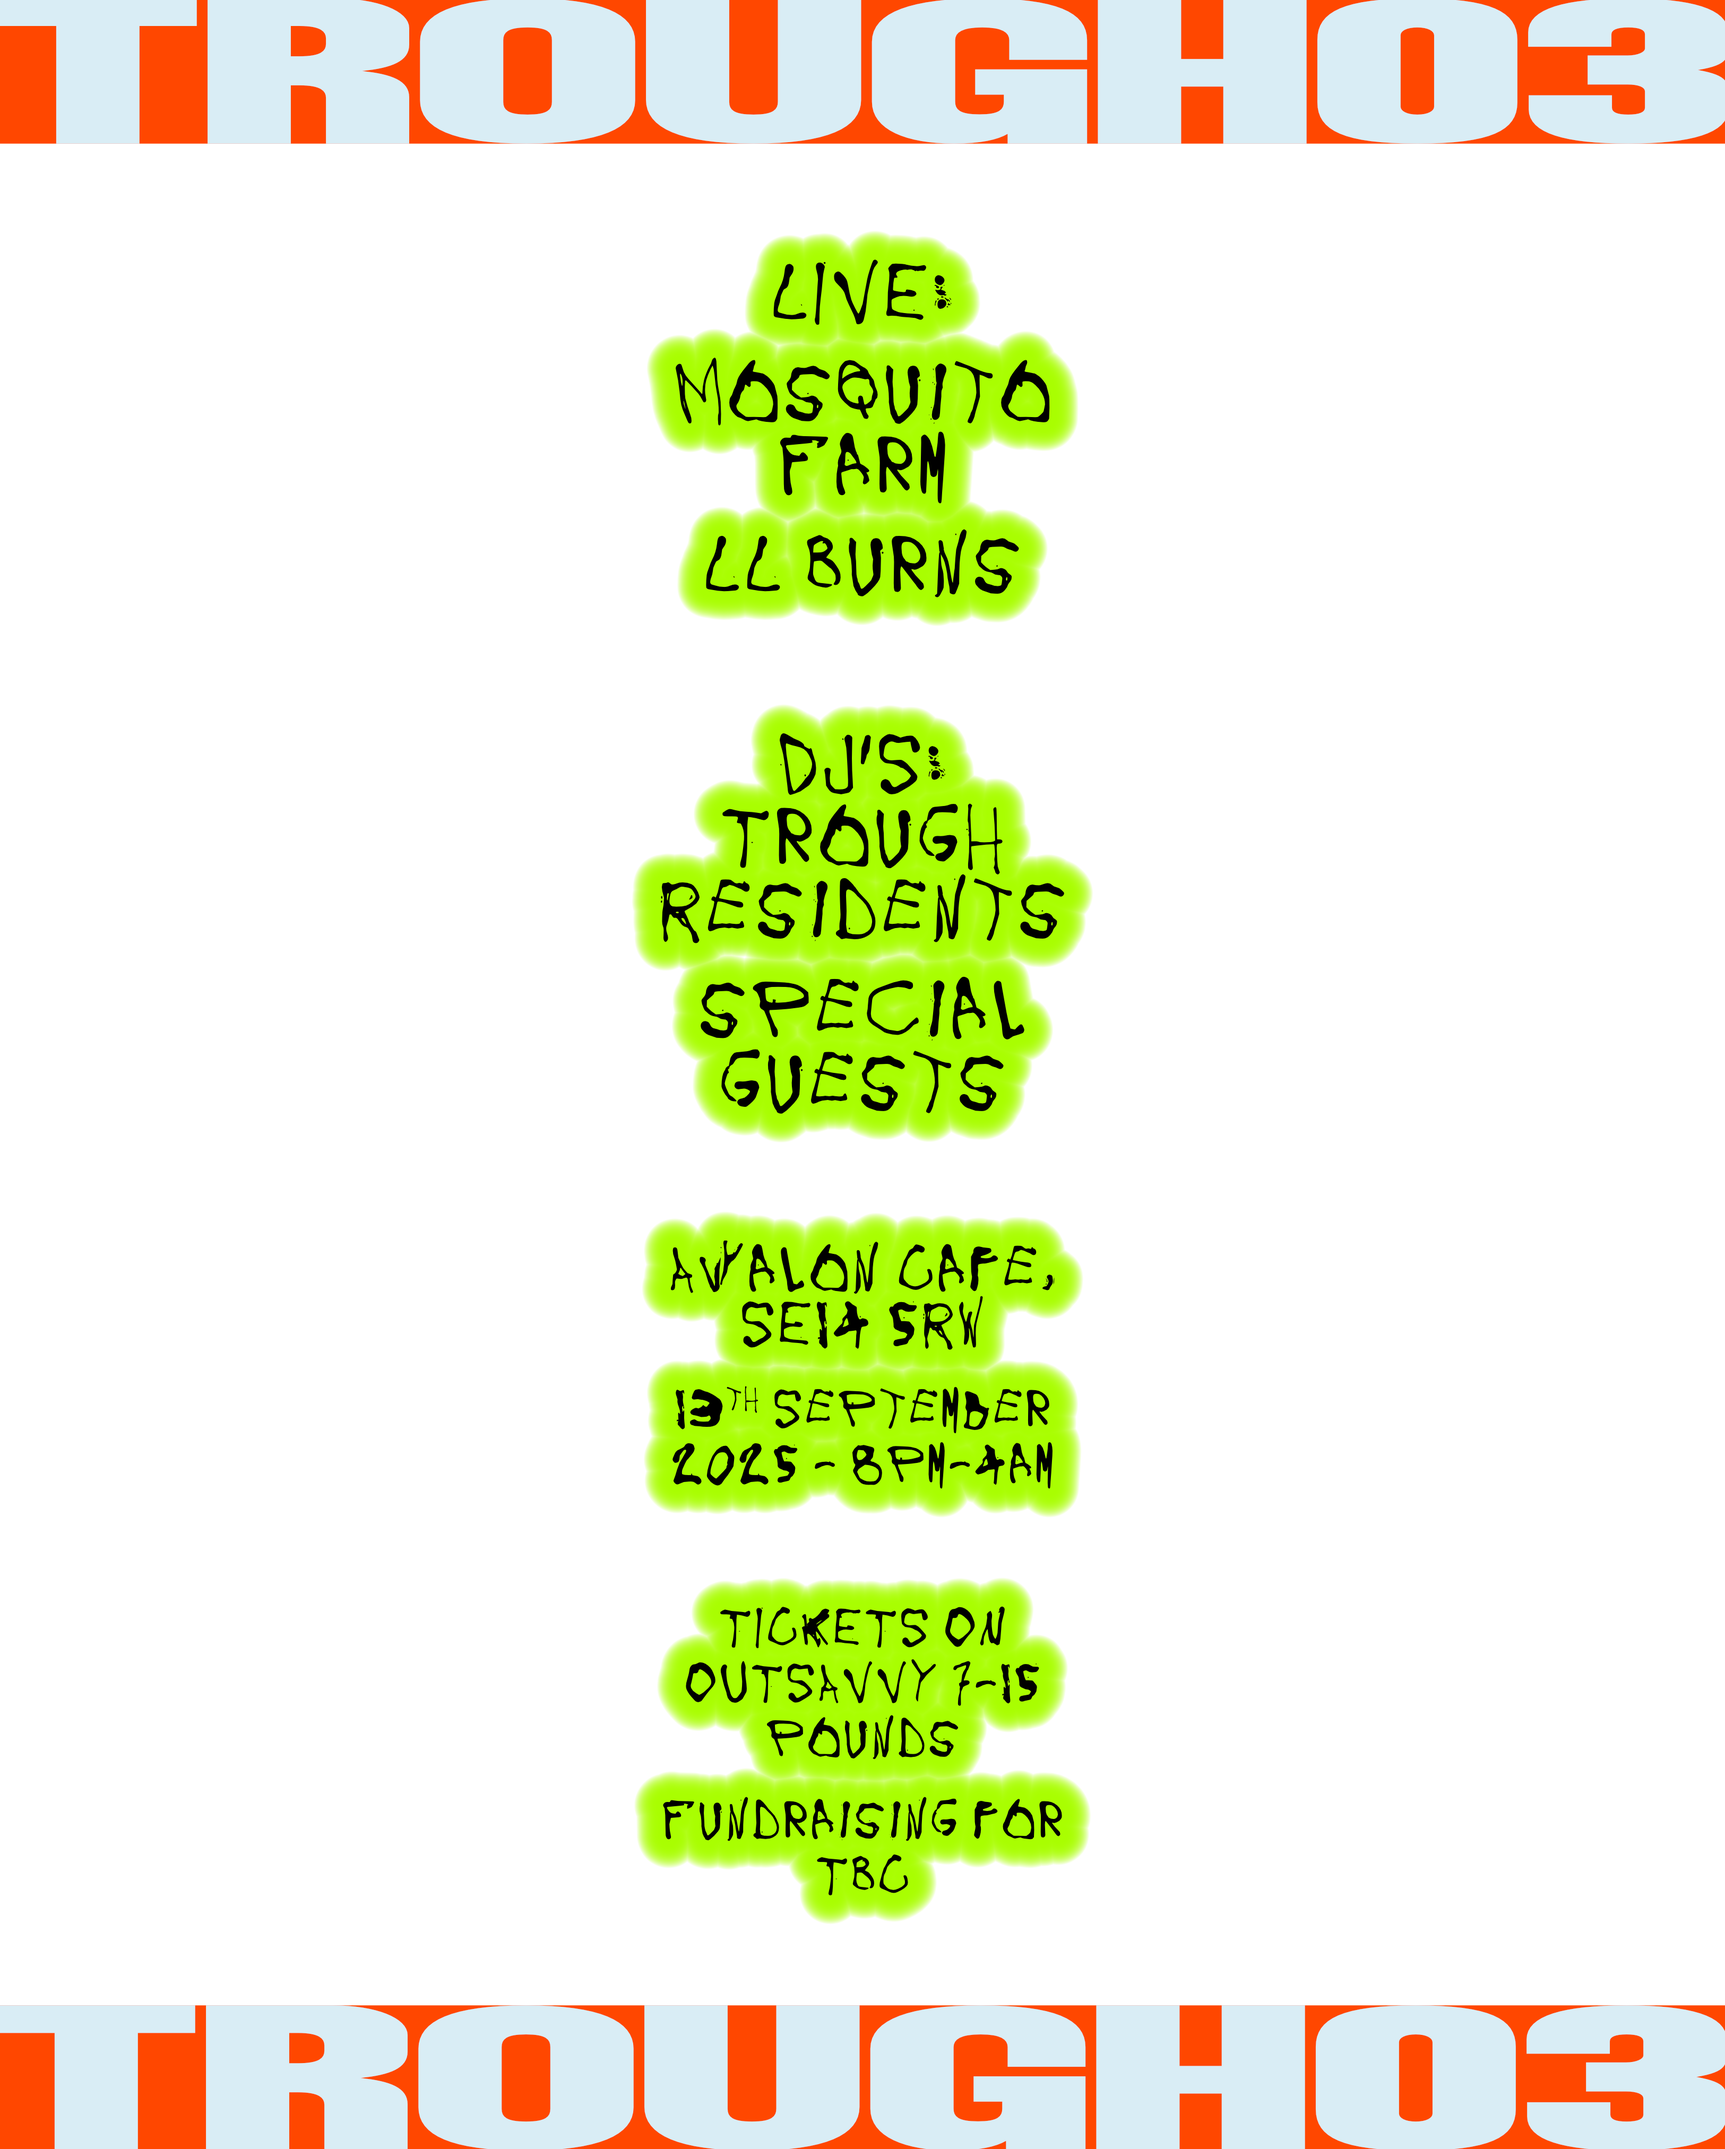
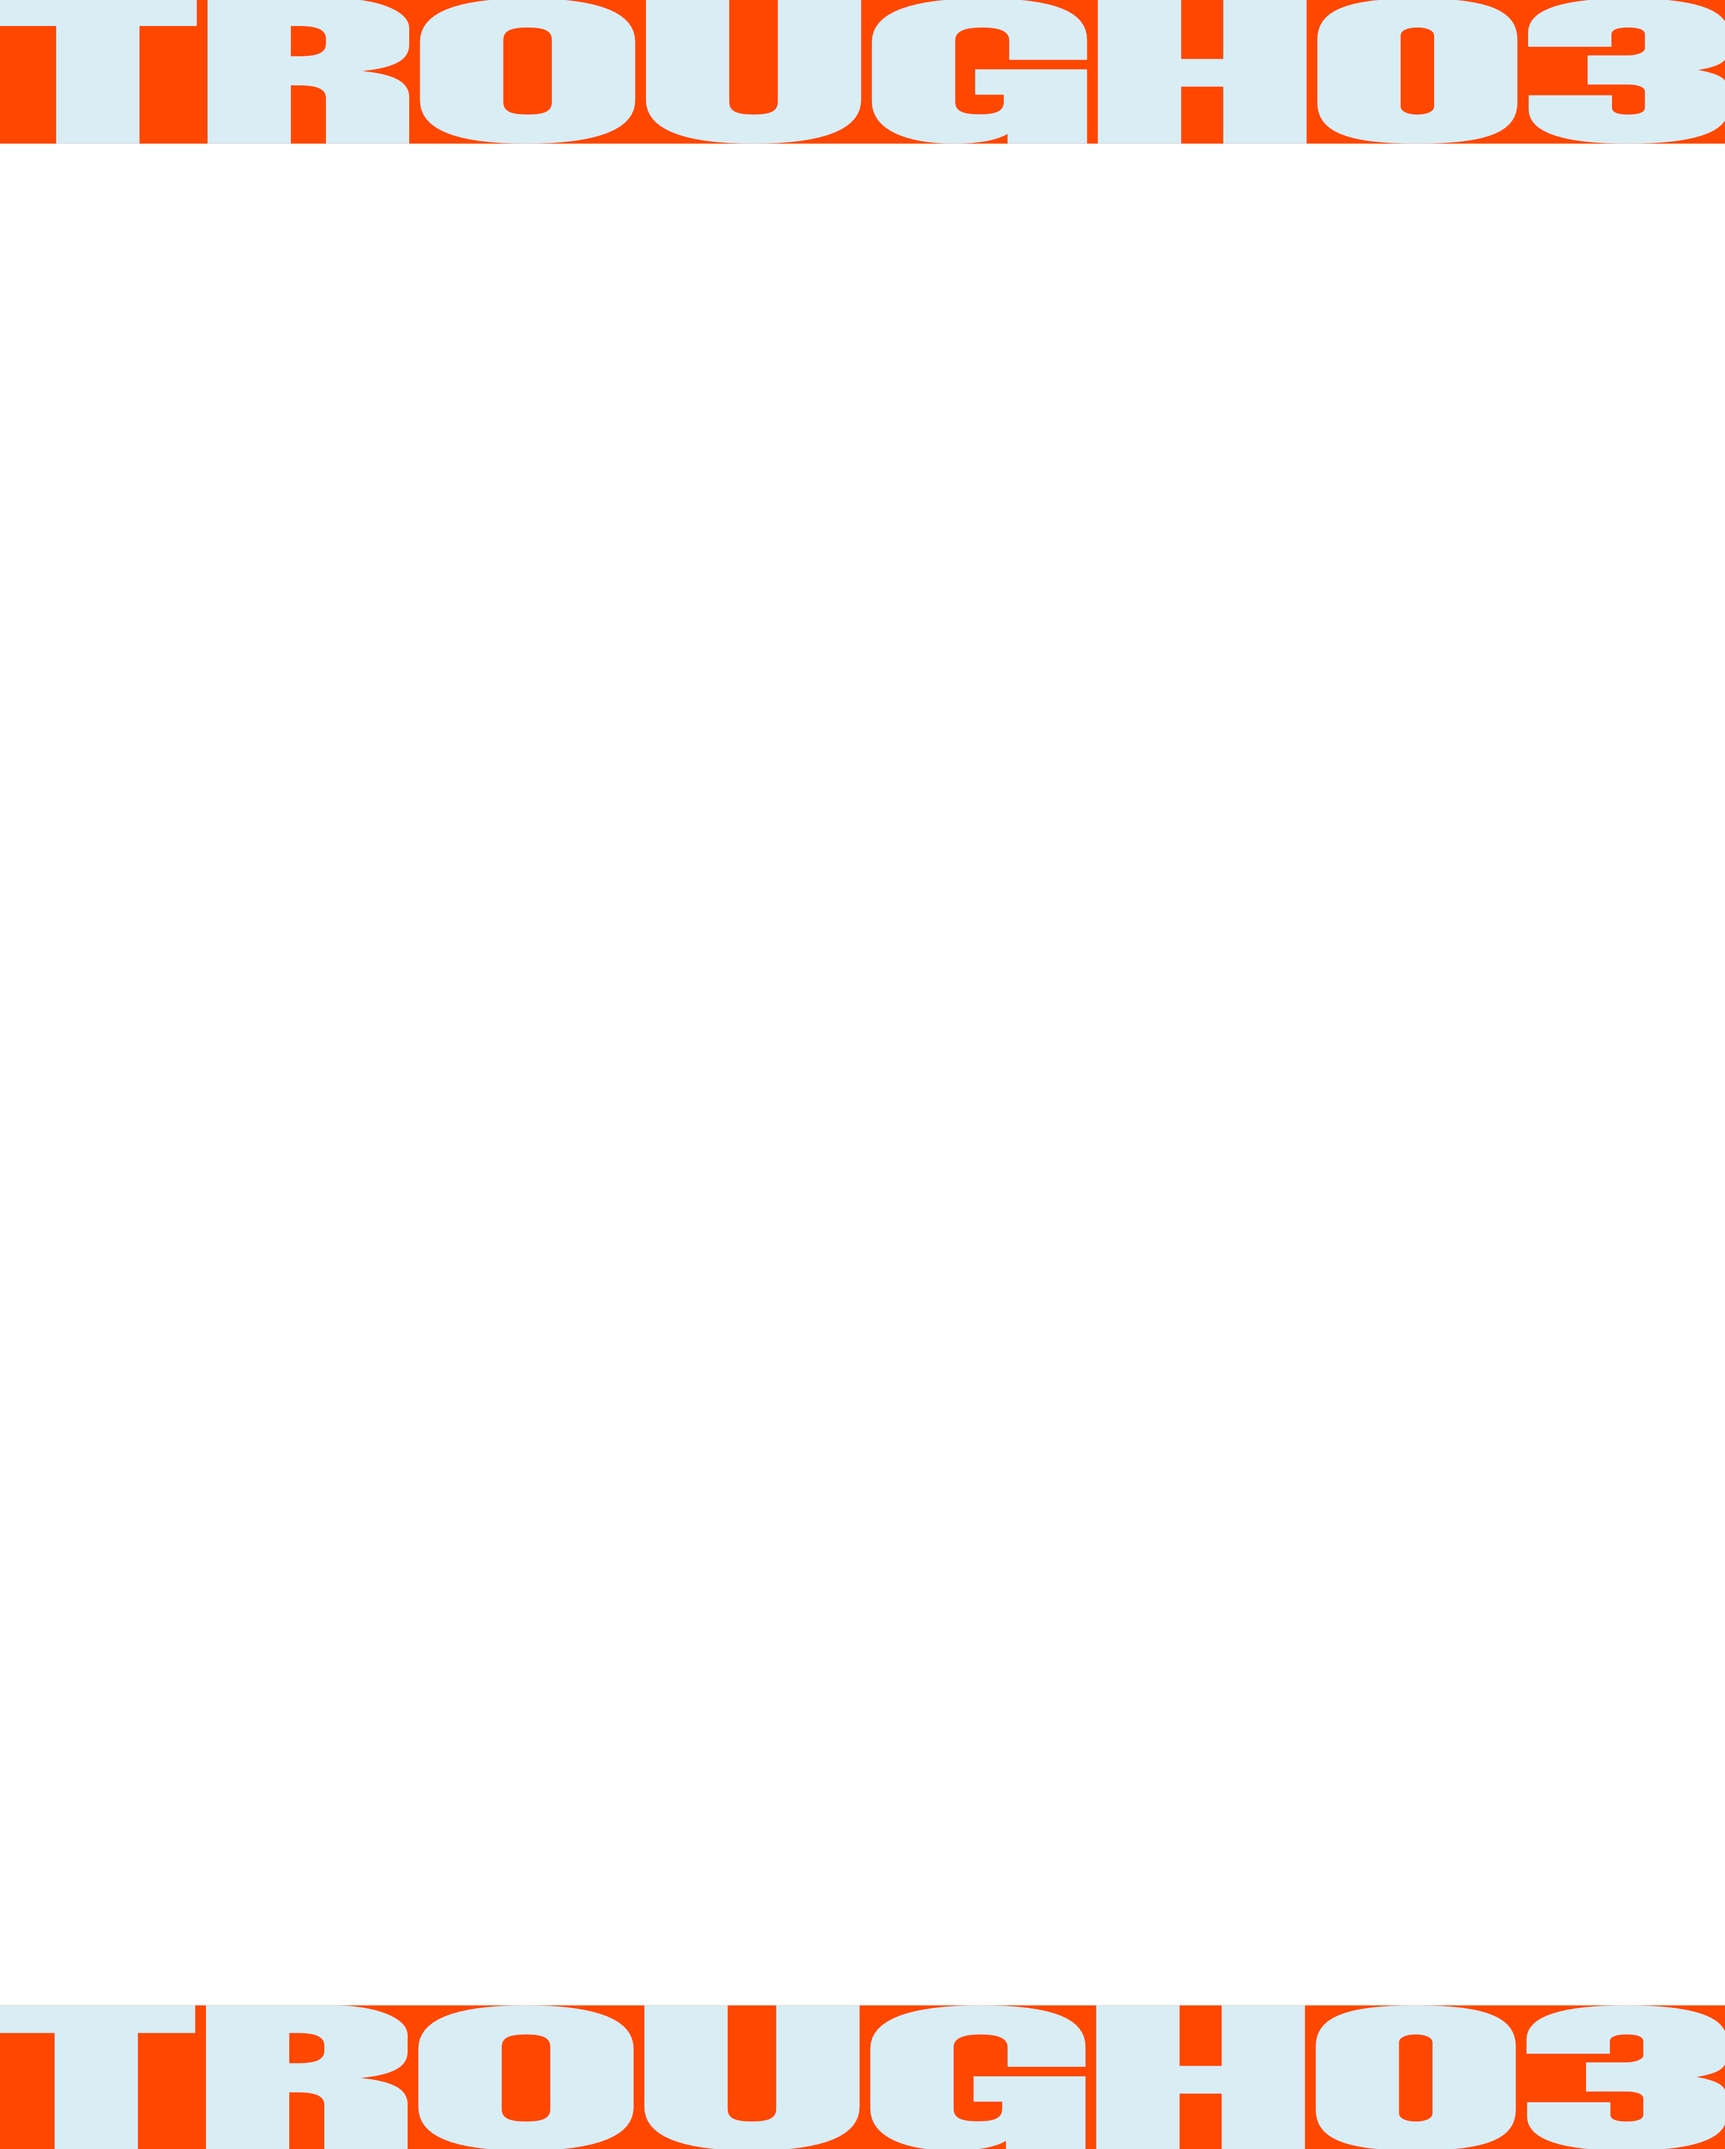
subtle movement and lineup on new layer

Changed region(s): [[0.3418, 0.0933, 0.6526, 0.5289], [0.3729, 0.56, 0.6526, 0.9022]]

diff --git a/p5js-app/public/sketch.js b/p5js-app/public/sketch.js
@@ -116,30 +116,31 @@ function setup() {
 function initializeCells() {
   cells = [];
   
-  // Only create grid cells if not in custom cell mode
-  if (!CONFIG.MODES.CUSTOM_CELLS) {
-    let drawableHeight = height - CONFIG.GRID.TOP_PADDING - CONFIG.GRID.BOTTOM_PADDING;
-    let cellWidth = width / gridCols;
-    let cellHeight = drawableHeight / gridRows;
-    
-    for (let row = 0; row < gridRows; row++) {
-      for (let col = 0; col < gridCols; col++) {
-        cells.push({
-          row: row,
-          col: col,
-          x: col * cellWidth,
-          y: row * cellHeight + CONFIG.GRID.TOP_PADDING,
-          width: cellWidth,
-          height: cellHeight,
-          state: 'empty', // 'empty', 'animating', 'complete'
-          drawing: null,
-          allPoints: [],
-          livePoints: [],
-          textPositions: [],
-          animationStartTime: 0,
-          cellIndex: row * gridCols + col // NEW: Add cell index for blocking
-        });
-      }
+  // Calculate dynamic vertical padding based on page height
+  const topPadding = height * CONFIG.GRID.TOP_PADDING_PERCENTAGE; // e.g., 0.05 for 5%
+  const bottomPadding = height * CONFIG.GRID.BOTTOM_PADDING_PERCENTAGE; // e.g., 0.05 for 5%
+  const drawableHeight = height - topPadding - bottomPadding;
+
+  let cellWidth = width / gridCols;
+  let cellHeight = drawableHeight / gridRows;
+  
+  for (let row = 0; row < gridRows; row++) {
+    for (let col = 0; col < gridCols; col++) {
+      cells.push({
+        row: row,
+        col: col,
+        x: col * cellWidth,
+        y: row * cellHeight + topPadding,
+        width: cellWidth,
+        height: cellHeight,
+        state: 'empty', // 'empty', 'animating', 'complete'
+        drawing: null,
+        allPoints: [],
+        livePoints: [],
+        textPositions: [],
+        animationStartTime: 0,
+        cellIndex: row * gridCols + col // NEW: Add cell index for blocking
+      });
     }
   }
   

diff --git a/p5js-app/public/style.css b/p5js-app/public/style.css
@@ -47,3 +47,32 @@ canvas {
 #texture-image {
     display: none; /* Hide the texture image */
 }
+
+#lineup-image {
+    position: absolute; /* Position it absolutely within the overlay container */
+    top: 50%; /* Center vertically */
+    left: 50%; /* Center horizontally */
+    transform: translate(-50%, -50%); /* Adjust for centering */
+    max-width: 100%;
+    max-height: 100%;
+    object-fit: contain;
+    pointer-events: none; /* Ensure it doesn't block canvas interactions */
+    z-index: 2; /* Ensure it appears above the canvas */
+
+    /* Add gentle displacement animation */
+    animation: gentleDisplacement 3s infinite alternate;
+    filter: url('#displacement-filter'); /* Optional: Use an SVG filter for more control */
+}
+
+/* Keyframes for gentle displacement */
+@keyframes gentleDisplacement {
+    0% {
+        filter: blur(0px) brightness(100%) contrast(100%);
+        transform: translate(-50.3%, -50%) scale(1);
+    
+    }
+    100% {
+        filter: blur(0.5px) brightness(100%) contrast(100%);
+        transform: translate(-50%, -50.%) scale(1);
+    }
+}

diff --git a/p5js-app/public/config.js b/p5js-app/public/config.js
@@ -48,7 +48,7 @@ const CONFIG = {
     
     // Text along path settings
     TEXT: {
-        CONTENT: "T R O U G H 0 3", // Text to repeat along path
+        CONTENT: "T R O U G H 3", // Text to repeat along path
         FONT_SIZE: 6,              // Size of text characters
       },
     
@@ -59,7 +59,9 @@ const CONFIG = {
         CELL_PADDING: 0.1,
         RANDOM_REDRAW: true,
         TOP_PADDING: 95,    // Add this
-        BOTTOM_PADDING: 95  // Add this
+        BOTTOM_PADDING: 95,  // Add this
+        TOP_PADDING_PERCENTAGE: 0.08, // 5% of the page height
+        BOTTOM_PADDING_PERCENTAGE: 0.08 // 5% of the page height
       },
     
     // Canvas settings

diff --git a/p5js-app/public/index.html b/p5js-app/public/index.html
@@ -11,6 +11,7 @@
     <div id="overlay-container">
         <img id="centered-image" src="images/Event Info.png" alt="Centered Image">
         <img id="texture-image" src="images/point_displace.png" alt="Texture Image">
+        <img id="lineup-image" src="images/lineup.png" alt="lineup text">
     </div>
     <script src="https://cdnjs.cloudflare.com/ajax/libs/p5.js/1.4.0/p5.js"></script>
     <script src="colours.js"></script>
